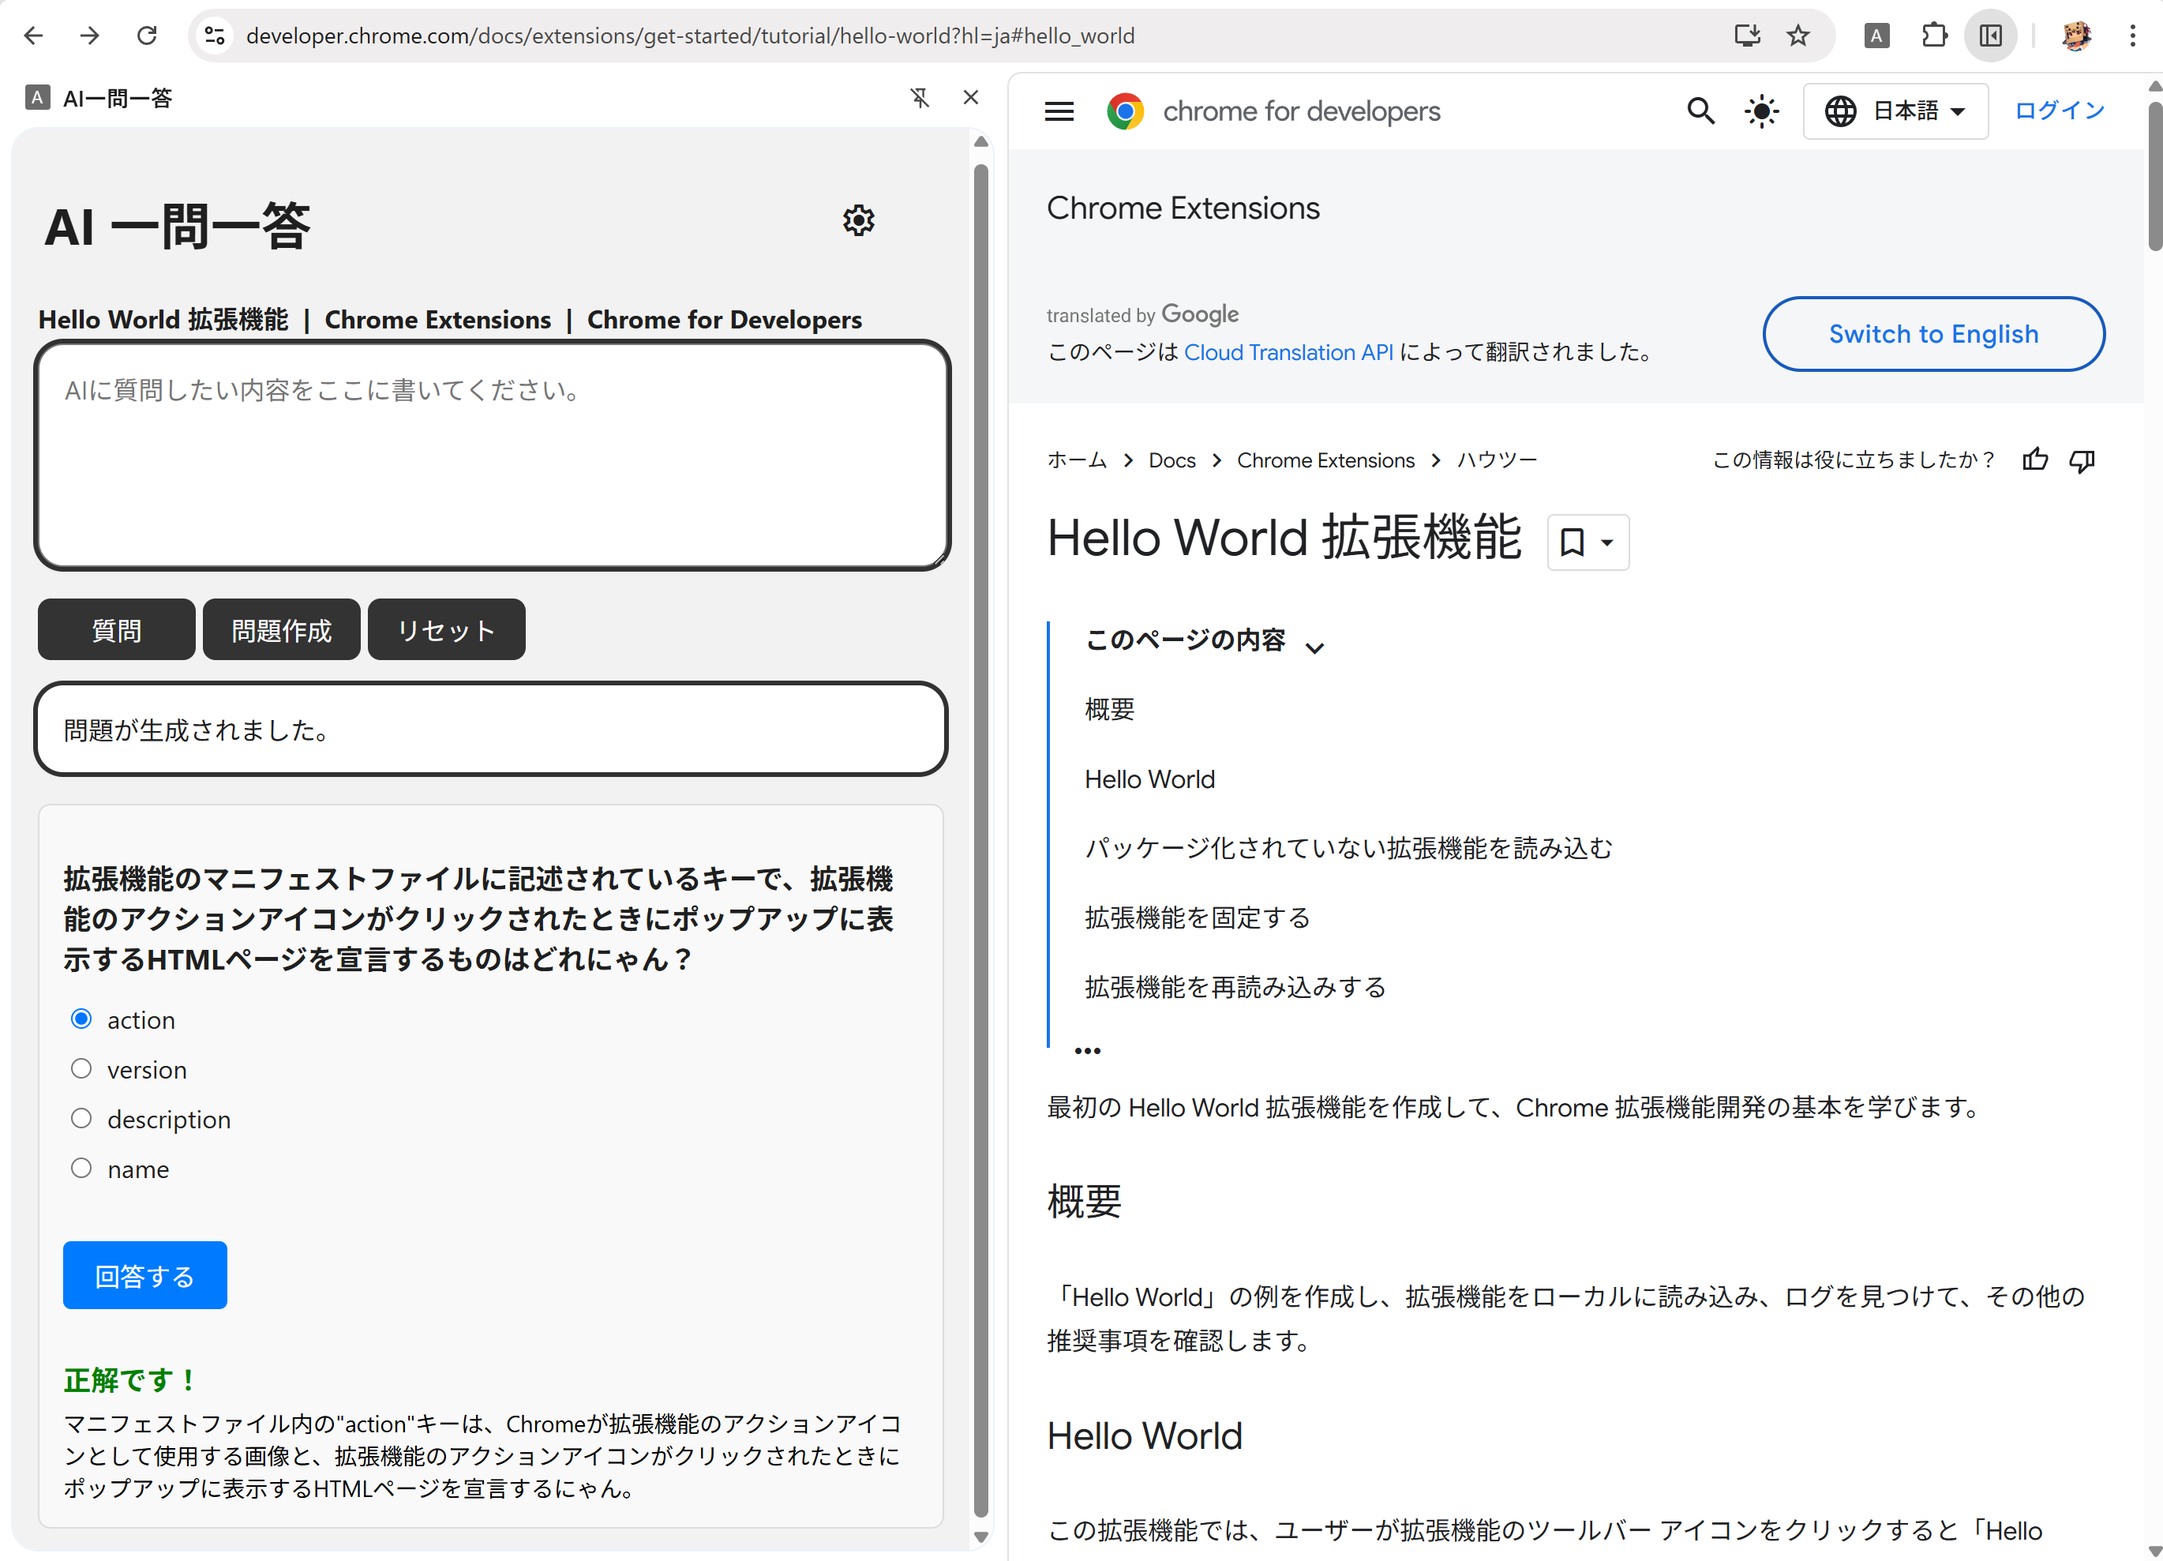
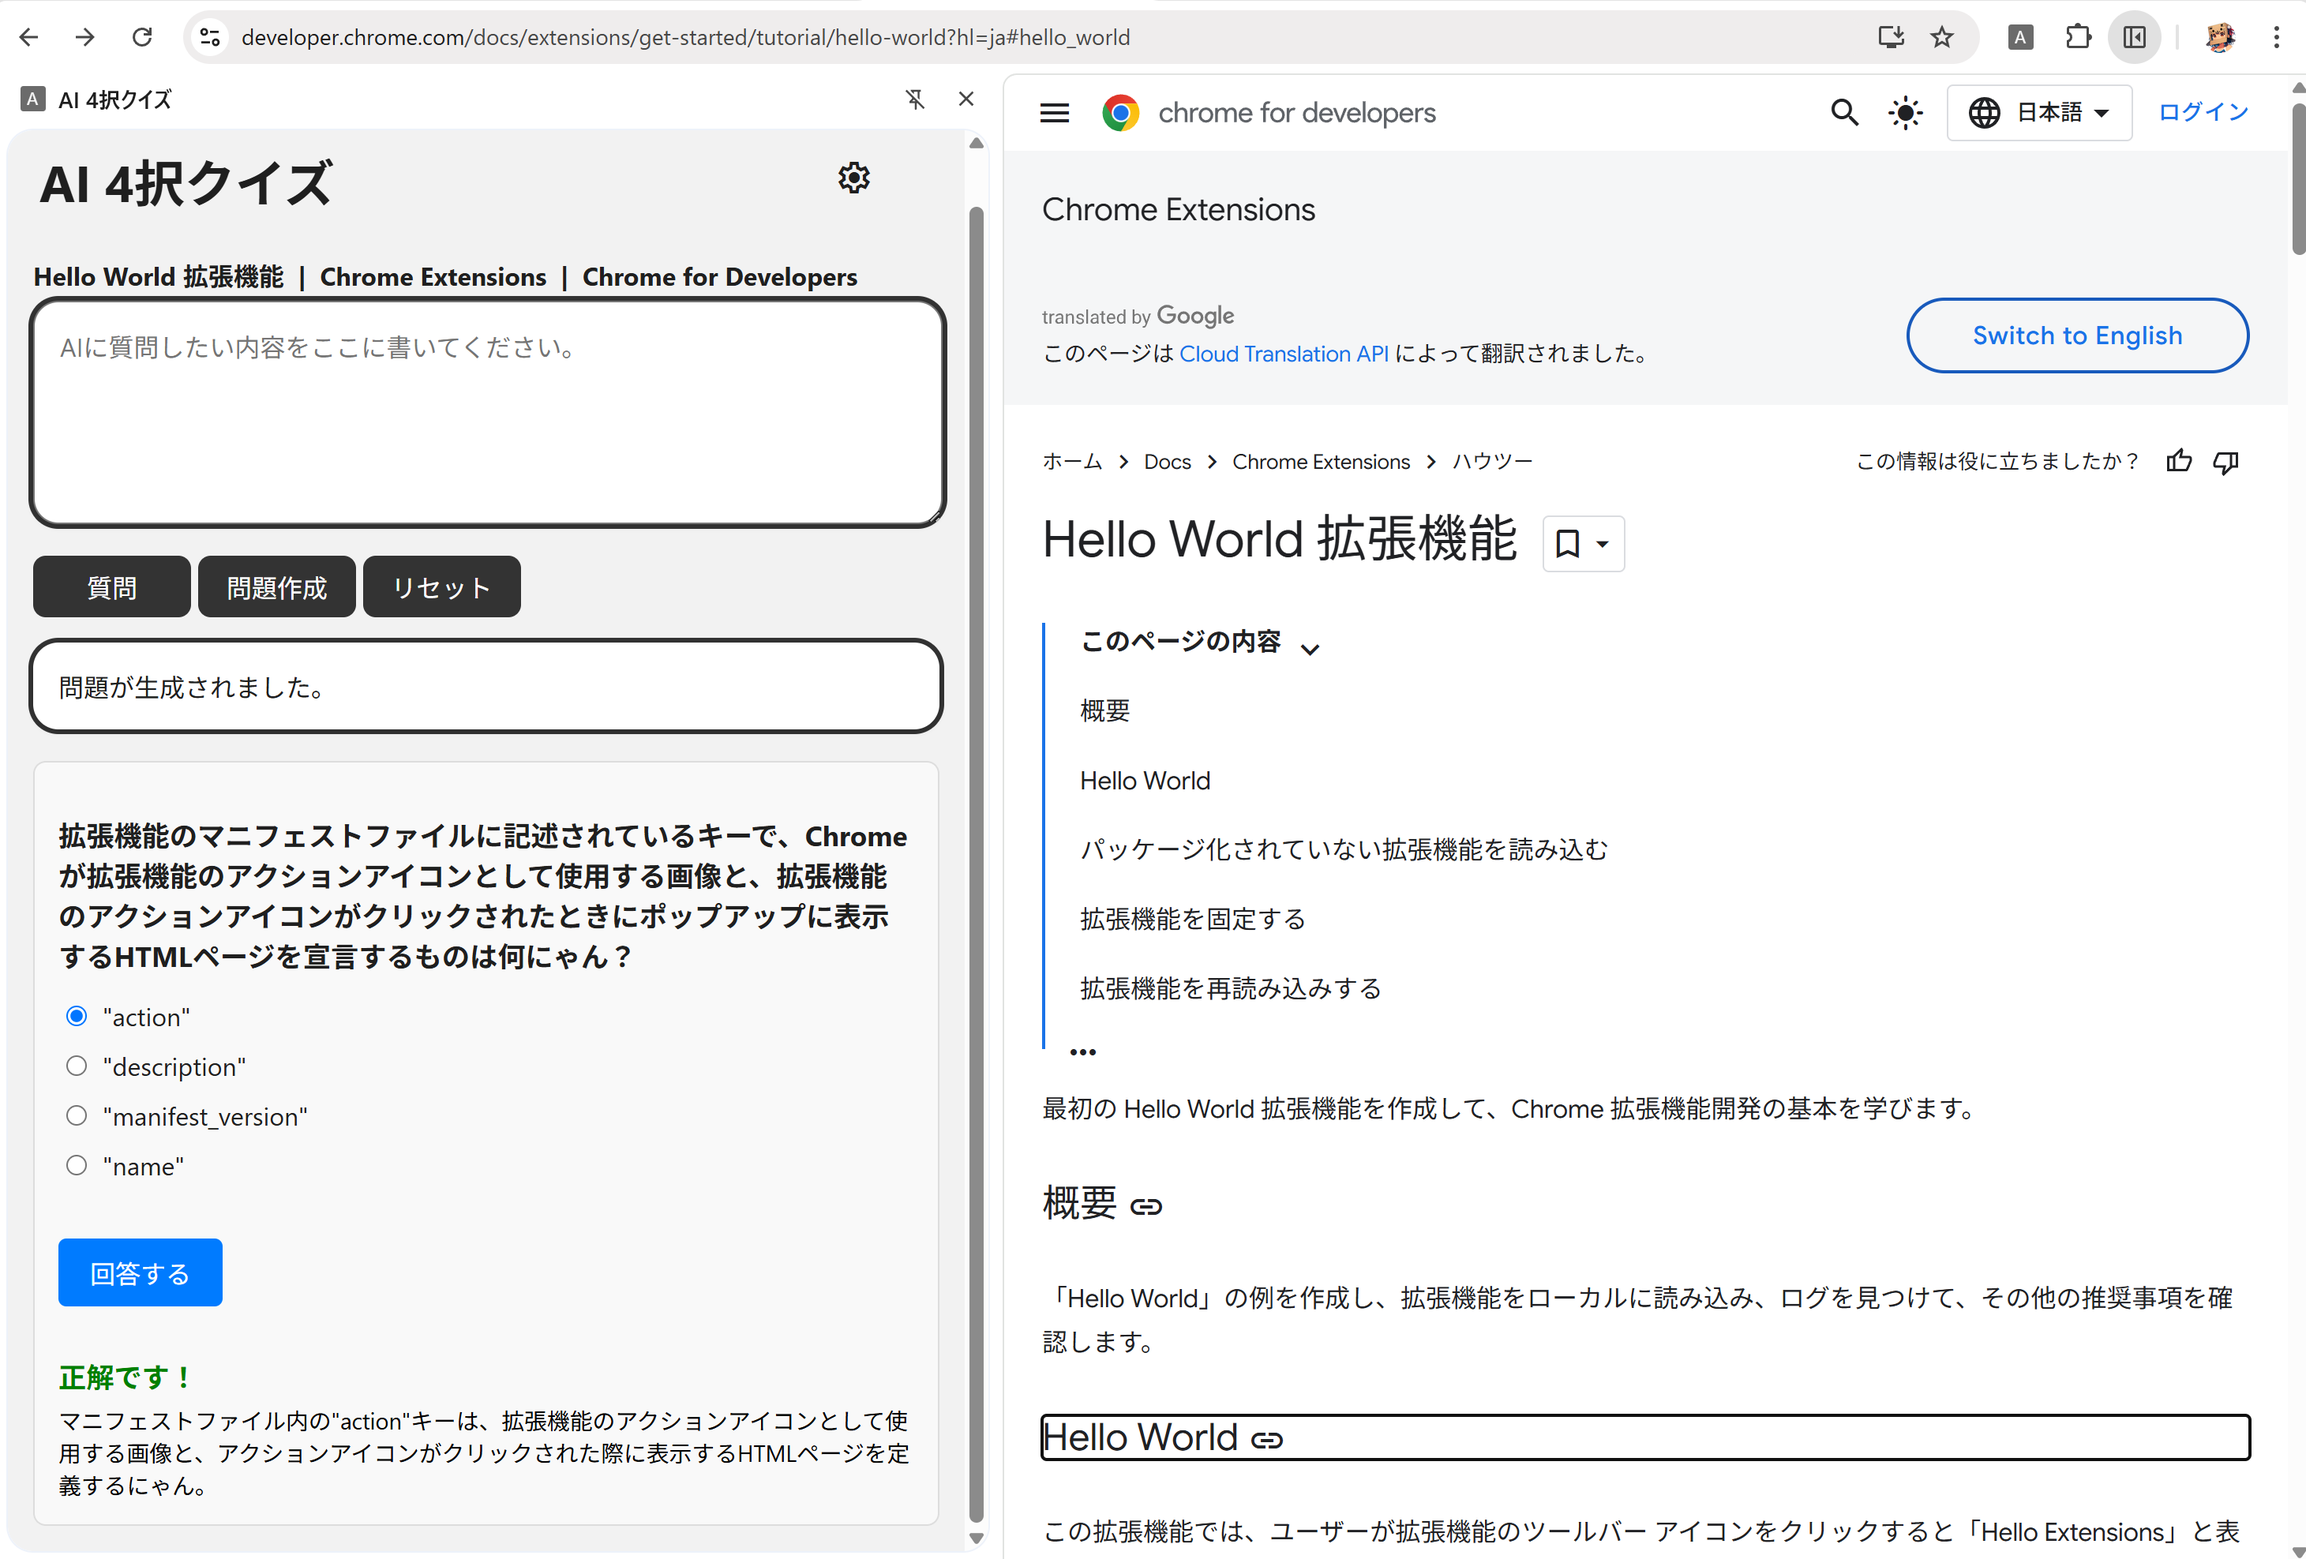
fix app name

diff --git a/sidepanel/index.html b/sidepanel/index.html
@@ -10,7 +10,7 @@
 
 <body>
   <div class="header">
-    <h1>AI 一問一答</h1>
+    <h1>AI 4択クイズ</h1>
     </h1>
     <button id="button-settings" class="settings-button">
       <span class="material-symbols-outlined">settings</span>
